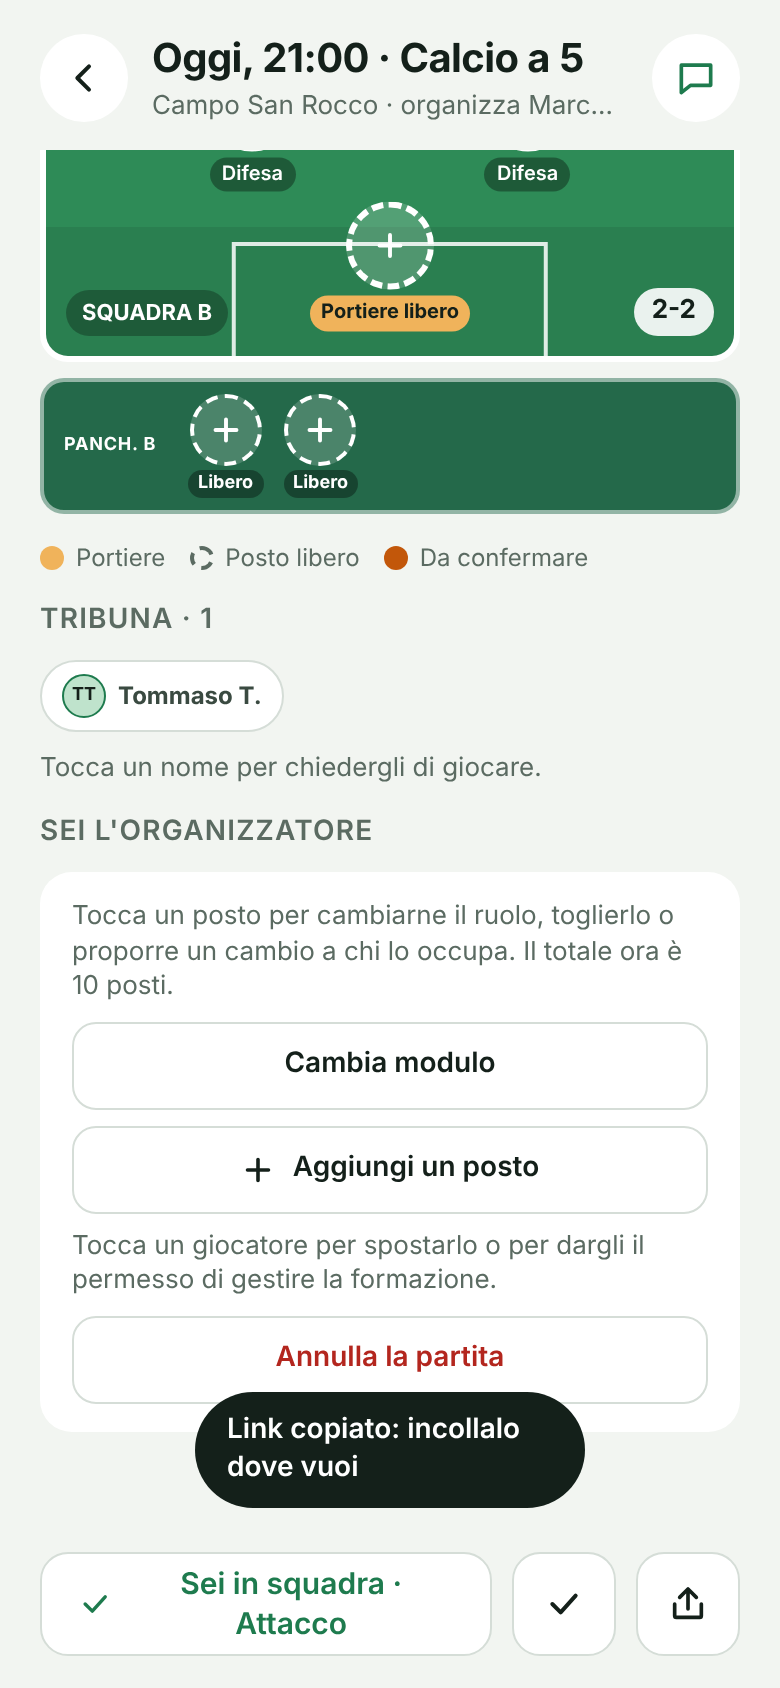
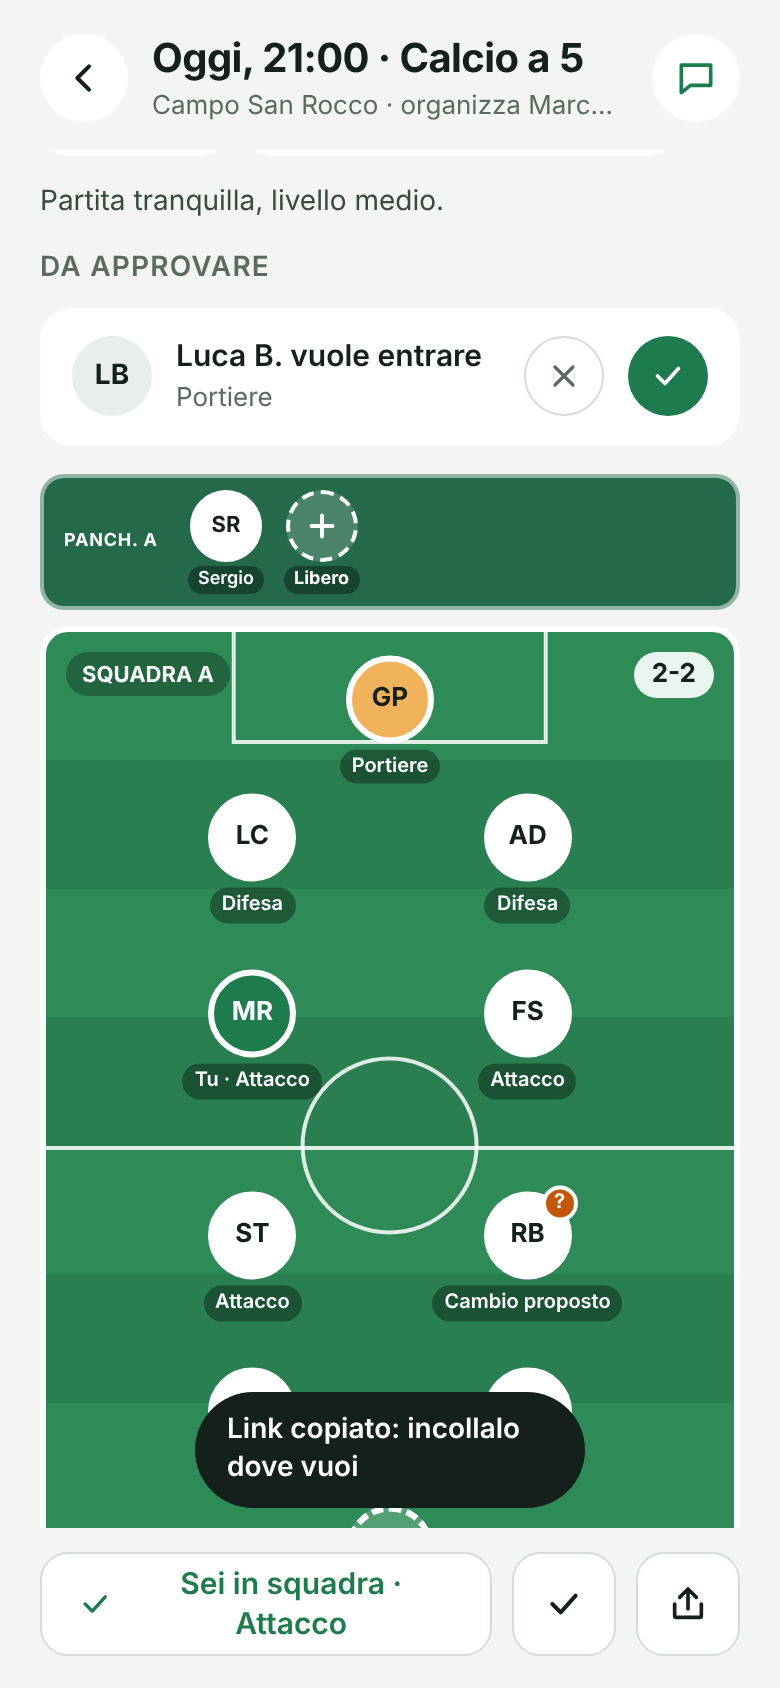
Formazione trascinando i cerchi: ruolo e modulo automatici dall'altezza
Claude-Session: https://claude.ai/code/session_01Djjfb2KNT9qH8Pf34YuUVA

diff --git a/src/components/CampoDisegnato.svelte b/src/components/CampoDisegnato.svelte
@@ -3,8 +3,55 @@
   // Squadra A in alto, squadra B in basso. Ogni posto è toccabile se c'è `alClick`.
   import Icona from './Icona.svelte'
   import { etichettaRuolo, iniziali } from '../lib/formato.js'
-  import { disponi, moduloDi } from '../lib/formazione.js'
-  let { posizioni = [], mioId = null, alClick = null, evidenzia = null } = $props()
+  import { disponi, moduloDi, ruoloDaAltezza } from '../lib/formazione.js'
+  let { posizioni = [], mioId = null, alClick = null, evidenzia = null, trascinabile = null, alTrascina = null } = $props()
+
+  // --- trascinamento: tieni premuto ~0,7 s, poi sposti il cerchio nella metà campo della sua squadra
+  const TEMPO_PRESSIONE = 700
+  let campoEl = $state(null)
+  let trascinato = $state(null)        // { id, x, y } in coordinate di metà campo
+  let attesa = null, partenza = null, appenaTrascinato = false
+
+  function coordinateDa(evento, p) {
+    const r = campoEl.getBoundingClientRect()
+    const xPct = ((evento.clientX - r.left) / r.width) * 100
+    const topPct = ((evento.clientY - r.top) / r.height) * 100
+    // inverso di stile(): top = 5 + y/2*0.9 (A) oppure 95 - y/2*0.9 (B)
+    const y = p.squadra === 'A' ? ((topPct - 5) / 0.9) * 2 : ((95 - topPct) / 0.9) * 2
+    return { x: Math.max(6, Math.min(94, xPct)), y: Math.max(20, Math.min(96, y)) }
+  }
+  function giu(evento, p) {
+    if (!trascinabile || !trascinabile(p) || p.ruolo === 'panchina') return
+    partenza = { x: evento.clientX, y: evento.clientY, p, pointerId: evento.pointerId, el: evento.currentTarget }
+    clearTimeout(attesa)
+    attesa = setTimeout(() => {
+      const c = coordinate[p.id] ?? { x: 50, y: 50 }
+      trascinato = { id: p.id, x: c.x, y: p.ruolo === 'portiere' ? c.y : c.y }
+      try { partenza.el.setPointerCapture(partenza.pointerId) } catch { /* niente */ }
+      navigator.vibrate?.(30)
+    }, TEMPO_PRESSIONE)
+  }
+  function muovi(evento) {
+    if (!partenza) return
+    if (!trascinato) {
+      // se il dito si muove prima del tempo, è uno scorrimento: annullo
+      if (Math.hypot(evento.clientX - partenza.x, evento.clientY - partenza.y) > 10) { clearTimeout(attesa); partenza = null }
+      return
+    }
+    evento.preventDefault()
+    const c = coordinateDa(evento, partenza.p)
+    trascinato = partenza.p.ruolo === 'portiere' ? { ...trascinato, x: Math.max(30, Math.min(70, c.x)) } : { id: trascinato.id, ...c }
+  }
+  function su() {
+    clearTimeout(attesa)
+    if (trascinato && partenza) {
+      const p = partenza.p, t = trascinato
+      appenaTrascinato = true; setTimeout(() => (appenaTrascinato = false), 50)
+      alTrascina?.(p, t.x, t.y)
+    }
+    trascinato = null; partenza = null
+  }
+  function tocco(p) { if (!appenaTrascinato) alClick?.(p) }
 
   const coordinate = $derived(disponi(posizioni))
   const inCampo = $derived(posizioni.filter((p) => p.ruolo !== 'panchina'))
@@ -13,7 +60,7 @@
   const conPanchine = $derived(panchinaA.length + panchinaB.length > 0)
 
   function stile(p) {
-    const c = coordinate[p.id] ?? { x: p.x, y: p.y }
+    const c = trascinato?.id === p.id ? trascinato : (coordinate[p.id] ?? { x: p.x, y: p.y })
     // metà campo mappata su 5%–95% così pallino e targhetta restano dentro il bordo
     const top = p.squadra === 'A' ? 5 + (c.y / 2) * 0.9 : 95 - (c.y / 2) * 0.9
     return `left:${c.x}%; top:${top}%`
@@ -28,6 +75,7 @@
   }
   function etichetta(p) {
     if (p.ruolo === 'panchina') return p.stato === 'libera' ? 'Libero' : (p.giocatore_id === mioId ? 'Tu' : (p.giocatore?.nome ?? '').split(' ')[0])
+    if (trascinato?.id === p.id && p.ruolo !== 'portiere') return `→ ${etichettaRuolo(ruoloDaAltezza(trascinato.y))}`
     if (p.stato === 'libera') return `${etichettaRuolo(p.ruolo)} libero`
     if (p.stato === 'cambio_proposto') return 'Cambio proposto'
     const base = etichettaRuolo(p.ruolo)
@@ -41,7 +89,10 @@
 
 {#snippet posto(p, classeExtra = '')}
   {#if alClick}
-    <button type="button" class="{classiPallino(p)} {classeExtra}" aria-label={ariaLabel(p)} onclick={() => alClick(p)}>
+    <button type="button" class="{classiPallino(p)} {classeExtra}" class:trascinabile={trascinabile?.(p) && p.ruolo !== 'panchina'} class:in-trascinamento={trascinato?.id === p.id}
+      aria-label={ariaLabel(p)} onclick={() => tocco(p)}
+      onpointerdown={(e) => giu(e, p)} onpointermove={muovi} onpointerup={su} onpointercancel={su}
+      oncontextmenu={(e) => e.preventDefault()}>
       {#if p.stato === 'libera'}<Icona nome="piu" dimensione={18} spessore={2.6} />{:else}{iniziali(p.giocatore)}{/if}
       {#if p.stato === 'cambio_proposto'}<span class="badge-domanda">?</span>{/if}
     </button>
@@ -67,7 +118,11 @@
 
 <div class="insieme" class:con-panchine={conPanchine}>
 {#if conPanchine}<div class="area-pA">{@render panchina(panchinaA, 'A')}</div>{/if}
-<div class="campo" role="group" aria-label="Formazione delle due squadre">
+<div class="campo" role="group" aria-label="Formazione delle due squadre" bind:this={campoEl} class:trascinando={!!trascinato}>
+  {#if trascinato}
+    <div class="fascia" style="top:{5 + (47 / 2) * 0.9}%"></div><div class="fascia" style="top:{5 + (73 / 2) * 0.9}%"></div>
+    <div class="fascia" style="top:{95 - (47 / 2) * 0.9}%"></div><div class="fascia" style="top:{95 - (73 / 2) * 0.9}%"></div>
+  {/if}
   <div class="meta"></div>
   <div class="cerchio"></div>
   <div class="area alto"></div>
@@ -78,7 +133,7 @@
   <div class="modulo basso" aria-label={`Modulo squadra B ${moduloDi(posizioni, 'B')}`}>{moduloDi(posizioni, 'B')}</div>
 
   {#each inCampo as p (p.id)}
-    <div class="posto" style={stile(p)}>
+    <div class="posto" class:sopra={trascinato?.id === p.id} style={stile(p)}>
       {@render posto(p)}
       <div class="targhetta" class:libera={p.stato === 'libera'} class:portiere={p.stato === 'libera' && p.ruolo === 'portiere'}>{etichetta(p)}</div>
     </div>
@@ -109,6 +164,10 @@
   .modulo { position: absolute; right: 10px; font-family: var(--font-titoli); font-size: 13px; font-weight: 700; color: var(--testo); background: rgba(255,255,255,0.9); padding: 3px 9px; border-radius: 999px; pointer-events: none; }
   .modulo.alto { top: 10px; } .modulo.basso { bottom: 10px; }
   .posto { position: absolute; width: 64px; transform: translate(-50%, -50%); display: flex; flex-direction: column; align-items: center; gap: 3px; transition: left .25s, top .25s; }
+  .posto.sopra { z-index: 5; transition: none; }
+  .trascinabile { touch-action: none; -webkit-user-select: none; user-select: none; -webkit-touch-callout: none; }
+  .in-trascinamento { transform: scale(1.15); box-shadow: 0 6px 16px rgba(0,0,0,.35); }
+  .fascia { position: absolute; left: 0; right: 0; height: 0; border-top: 2px dashed rgba(255,255,255,.45); pointer-events: none; }
   .pallino-posto {
     width: 44px; height: 44px; border-radius: 22px; background: #fff; color: var(--testo);
     font-size: 13px; font-weight: 700; display: flex; align-items: center; justify-content: center;

diff --git a/src/pages/Partita.svelte b/src/pages/Partita.svelte
@@ -5,7 +5,7 @@
   import { auth } from '../lib/auth.svelte.js'
   import { router, indietro, naviga } from '../lib/router.svelte.js'
   import { etichettaDataOra, etichettaFormato, nomeBreve, chipPosti, euro, etichettaRuolo, iniziali, RUOLI } from '../lib/formato.js'
-  import { conta, contaRuoli, testoModulo, moduloPerDb } from '../lib/formazione.js'
+  import { conta, contaRuoli, testoModulo, moduloPerDb, disponi } from '../lib/formazione.js'
   import Contatori from '../components/Contatori.svelte'
   import Icona from '../components/Icona.svelte'
   import CampoDisegnato from '../components/CampoDisegnato.svelte'
@@ -140,6 +140,17 @@
   const esciTribuna = () => esegui('esci_tribuna', { p_partita: id }, 'Sei uscito dalla tribuna.')
   const chiedi = (p, giocatoreId) => esegui('chiedi_di_giocare', { p_posizione: p.id, p_giocatore: giocatoreId }, 'Richiesta inviata: deve accettare.')
   const rispondiInvito = (accetta) => esegui('rispondi_invito', { p_partita: id, p_accetta: accetta }, accetta ? 'Sei in campo!' : 'Resti in tribuna.')
+  // trascinamento: alla prima volta fisso anche gli altri posti della squadra dove sono, così non si rimescolano
+  async function trascina(p, x, y) {
+    errore = ''; avviso = ''
+    const fissi = disponi(posizioni)
+    const daFissare = Object.fromEntries(posizioni.filter((q) => q.squadra === p.squadra && q.ruolo !== 'panchina' && !q.manuale && q.id !== p.id).map((q) => [q.id, fissi[q.id]]))
+    if (Object.keys(daFissare).length) {
+      const { error } = await supabase.rpc('fissa_posti', { p_partita: id, p_squadra: p.squadra, p_coordinate: daFissare })
+      if (error) { errore = pulisci(error.message); return }
+    }
+    await esegui('trascina_posto', { p_posizione: p.id, p_x: x, p_y: y })
+  }
   const sposta = (da, a) => esegui('sposta_giocatore', { p_da: da.id, p_a: a.id }, a.giocatore_id ? 'Posti scambiati.' : 'Giocatore spostato.')
   const cambiaModulo = (squadra, m) => esegui('cambia_modulo', { p_partita: id, p_squadra: squadra, p_modulo: moduloPerDb(m) }, `Squadra ${squadra}: modulo ${testoModulo(m)}.`)
   const nominaVice = (giocatoreId, squadra, si) => esegui('nomina_vice', { p_partita: id, p_giocatore: giocatoreId, p_squadra: squadra, p_si: si }, si ? `Ora è vice della squadra ${squadra}.` : 'Non è più vice.')
@@ -256,7 +267,11 @@
         </section>
       {/if}
 
-      <CampoDisegnato {posizioni} mioId={uid} alClick={modificabile ? tocca : null} />
+      <CampoDisegnato {posizioni} mioId={uid} alClick={modificabile ? tocca : null}
+        trascinabile={modificabile ? (p) => gestisco(p.squadra) : null} alTrascina={trascina} />
+      {#if modificabile && sonoOrganizzatore}
+        <p class="aiuto" style="text-align:center">Tieni premuto un cerchio e trascinalo: vicino alla porta è difesa, in mezzo centrocampo, avanti attacco. Il modulo si aggiorna da solo.</p>
+      {/if}
 
       <div class="legenda">
         <div><span class="pallino" style="background: var(--portiere)"></span>Portiere</div>

diff --git a/src/lib/formazione.js b/src/lib/formazione.js
@@ -5,11 +5,18 @@ const RIGHE = { portiere: 8, difesa: 34, centro: 60, attacco: 86 }
 const COLONNE = { 1: [50], 2: [30, 70], 3: [22, 50, 78], 4: [15, 38, 62, 85] }
 const ORDINE = ['portiere', 'difesa', 'centro', 'attacco']
 
-/** Ritorna una mappa id → {x, y} (percentuali nella metà campo, y=0 porta propria). */
+/** Ruolo dedotto dall'altezza nella metà campo (0 = propria porta, 100 = metà campo); stesse soglie del DB. */
+export function ruoloDaAltezza(y) {
+  return y < 47 ? 'difesa' : y < 73 ? 'centro' : 'attacco'
+}
+
+/** Ritorna una mappa id → {x, y} (percentuali nella metà campo, y=0 porta propria).
+ *  I posti spostati a mano (manuale) restano dove sono; gli altri si dispongono in righe per ruolo. */
 export function disponi(posizioni) {
   const coordinate = {}
+  for (const p of posizioni) if (p.manuale && p.ruolo !== 'panchina') coordinate[p.id] = { x: p.x, y: p.y }
   for (const squadra of ['A', 'B']) {
-    const mie = posizioni.filter((p) => p.squadra === squadra && p.ruolo !== 'panchina')
+    const mie = posizioni.filter((p) => p.squadra === squadra && p.ruolo !== 'panchina' && !p.manuale)
     const ruoliPresenti = ORDINE.filter((r) => mie.some((p) => p.ruolo === r))
     // se mancano i centrocampisti, difesa e attacco si allontanano un po'
     const righe = { ...RIGHE }

diff --git a/CLAUDE.md b/CLAUDE.md
@@ -93,3 +93,4 @@ RLS: tutti leggono campi e partite aperte; messaggi leggibili/scrivibili solo da
 - 2026-11-11: **Tribuna** (tabella `tribuna`: segue la partita e la chat senza giocare), **modalità** `partite.modalita` = `libera` (ognuno si siede) o `approvazione` (assegna l'organizzatore: candidature o "chiedi di giocare" con invito da accettare), **panchine** come posizioni con ruolo `panchina` (`partite.panchina` riserve per squadra), mostrate a lato del campo; non contano per lo stato "completa". La lista amici vera arriverà con la tappa 4.
 - 2026-11-11: **Modulo** scelto alla creazione (`p_modulo`, es. 1-2-2 / 1-1-3 / 1-1-2-1; elenco in `src/lib/formazione.js` → MODULI) e cambiabile per squadra con `cambia_modulo` (chi è in campo resta in campo). **Sposta/scambia** giocatori con `sposta_giocatore`. **Vice** per squadra (tabella `vice`, colonna `squadra`): gestisce modulo e posizioni solo della sua squadra (`puo_gestire_squadra`); l'organizzatore gestisce entrambe e nomina i vice. Con modalità `approvazione` il cambio di ruolo è diretto, senza conferma. Panchine: a lato del campo su schermi larghi, sopra/sotto in orizzontale sotto i 480px. Bottone "copia link" nella partita.
 - 2026-11-11: Modulo **senza portiere** (sempre 1) e scelto con **tre contatori** Difesa/Centrocampo/Attacco (`src/components/Contatori.svelte`), niente elenco di moduli fissi. Il modulo si mostra sul campo: in alto a destra per la squadra A, in basso a destra per la B. Nel DB resta la forma `1-d-c-a` (`moduloPerDb`), nei messaggi `testo_modulo`.
+- 2026-11-11: **Formazione trascinando i cerchi** (pressione lunga 0,7 s, `TEMPO_PRESSIONE` in `CampoDisegnato.svelte`): il ruolo si deduce dall'altezza nella metà campo (`ruolo_da_altezza`: <47 difesa, <73 centrocampo, oltre attacco), il portiere resta in porta e si sposta solo di lato. Posti spostati a mano hanno `posizioni.manuale = true` e coordinate x/y salvate; al primo trascinamento il client fissa anche gli altri della squadra (`fissa_posti`). Cambiando modulo con i contatori la squadra torna automatica.

diff --git a/docs/PUNTO.md b/docs/PUNTO.md
@@ -49,6 +49,7 @@ Aggiornato: 11 novembre 2026, sera: tutto provato dal telefono, resta solo il ri
 6c. [x] **Tribuna, "decido io chi gioca", panchine** (richiesto l'11/11, ramo `tribuna`, scritto e provato). Migrazione 0003 **applicata da Claude** l'11/11 sera tramite token Supabase. Da unire su `main` dopo la prova di Flavio
 6d. [x] **Modulo, sposta/scambia, vice di squadra, cambio ruolo diretto con "decido io", panchina sul cellulare, copia link** (richiesti l'11/11 sera): migrazioni 0004-0006 applicate da Claude, in anteprima su anteprima.nemanca1.pages.dev
 6e. [x] **Modulo con tre contatori, senza portiere, mostrato sul campo** (richiesto l'11/11 sera), in anteprima
+6f. [x] **Formazione trascinando i cerchi** con ruolo e modulo automatici (richiesto l'11/11 sera), in anteprima
 7. [x] **Pagina amministratore** `/admin` (ramo `tappa-2`): numeri, ultimi iscritti con email e badge "nuovi", prossime partite con annulla, campi con verifica/elimina. Accesso dal Profilo, solo per `profili.admin` (il primo iscritto, Flavio)
 8. [ ] **Avviso a Flavio a ogni nuovo iscritto** (richiesto l'11/11). Già fatto: badge "nuovi" nella pagina amministratore. Manca: email automatica (serve mettere la chiave Resend nei segreti di Supabase) e (trigger DB → Resend), poi come notifica push con OneSignal (Tappa 3) e lista "ultimi iscritti" nella pagina amministratore
 
@@ -58,6 +59,8 @@ Aggiornato: 11 novembre 2026, sera: tutto provato dal telefono, resta solo il ri
     ~~Database automatico da GitHub~~ (richiesto l'11/11, da fare più avanti): collegare Supabase a GitHub, rinominare le migrazioni nel formato Supabase CLI e marcare 0001/0002 come già applicate
 
 ## Richieste di Flavio in sospeso
+
+- **Da unire su www**: il sito vero ha la versione vecchia e mostra male le panchine (il database le contiene già). Serve il "unisci" di Flavio.
 
 - **Sicurezza, per ultima** (deciso da Flavio l'11/11): revocare il primo token Supabase `claude-nemanca1` e rigenerare la chiave Resend, entrambi finiti in screenshot.
 
